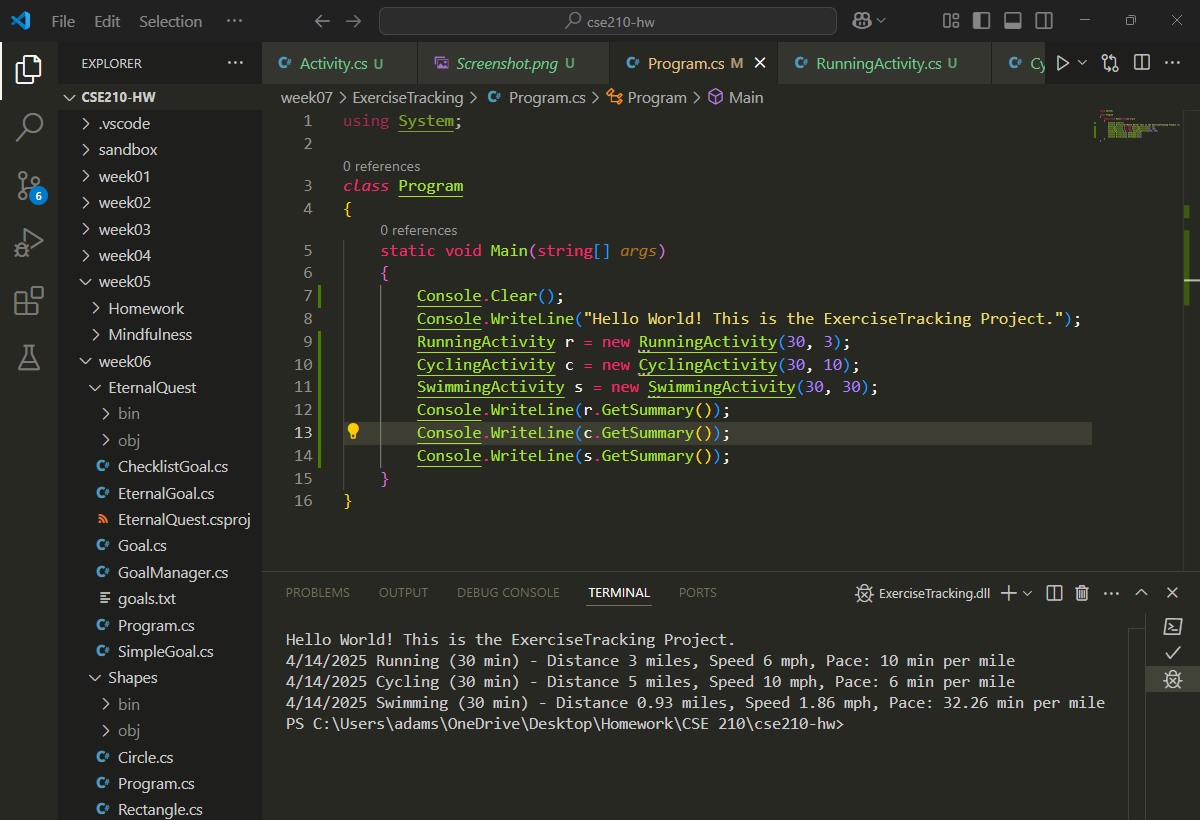
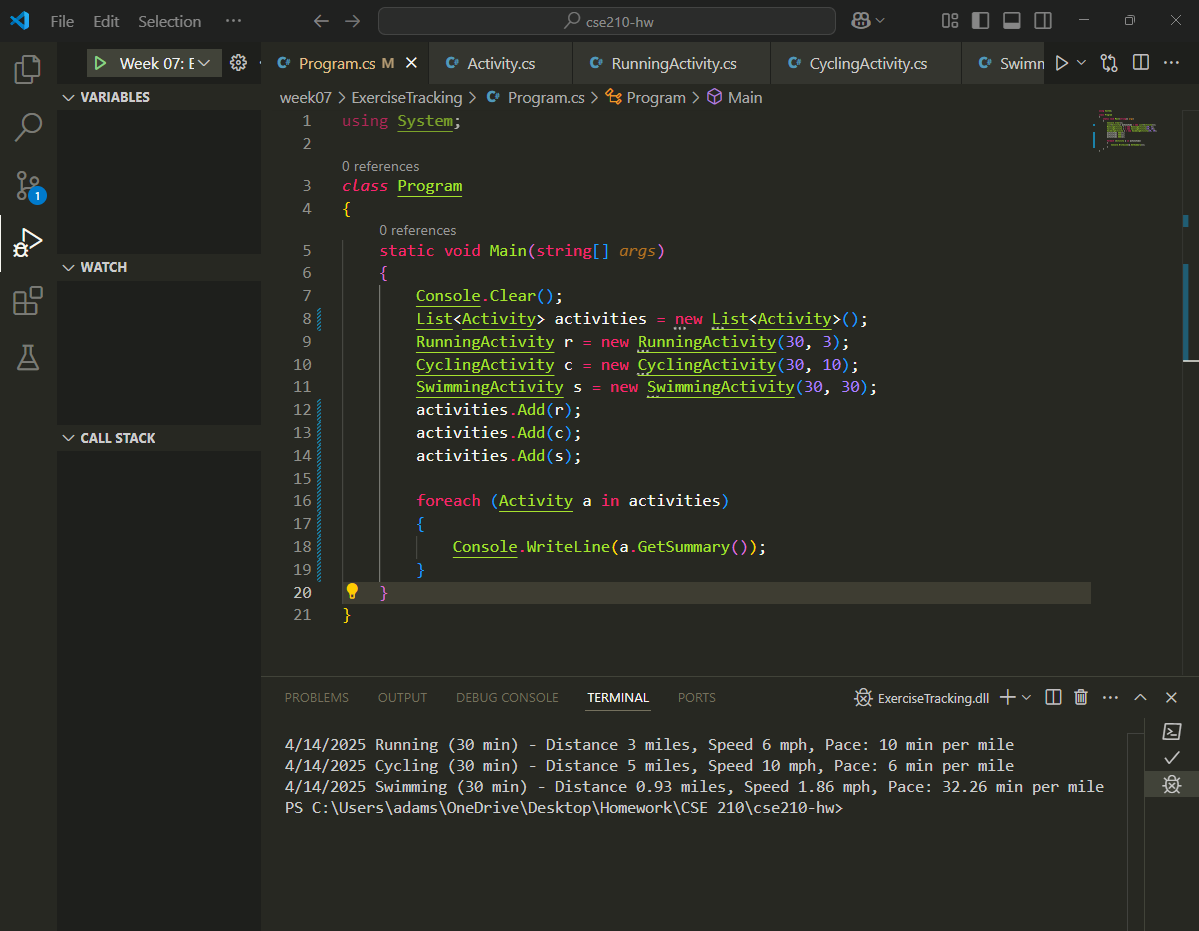
fixes

diff --git a/week07/ExerciseTracking/Program.cs b/week07/ExerciseTracking/Program.cs
@@ -5,12 +5,17 @@ class Program
     static void Main(string[] args)
     {
         Console.Clear();
-        Console.WriteLine("Hello World! This is the ExerciseTracking Project.");
+        List<Activity> activities = new List<Activity>();
         RunningActivity r = new RunningActivity(30, 3);
         CyclingActivity c = new CyclingActivity(30, 10);
         SwimmingActivity s = new SwimmingActivity(30, 30);
-        Console.WriteLine(r.GetSummary());
-        Console.WriteLine(c.GetSummary());
-        Console.WriteLine(s.GetSummary());
+        activities.Add(r);
+        activities.Add(c);
+        activities.Add(s);
+
+        foreach (Activity a in activities)
+        {
+            Console.WriteLine(a.GetSummary());
+        }
     }
 }
